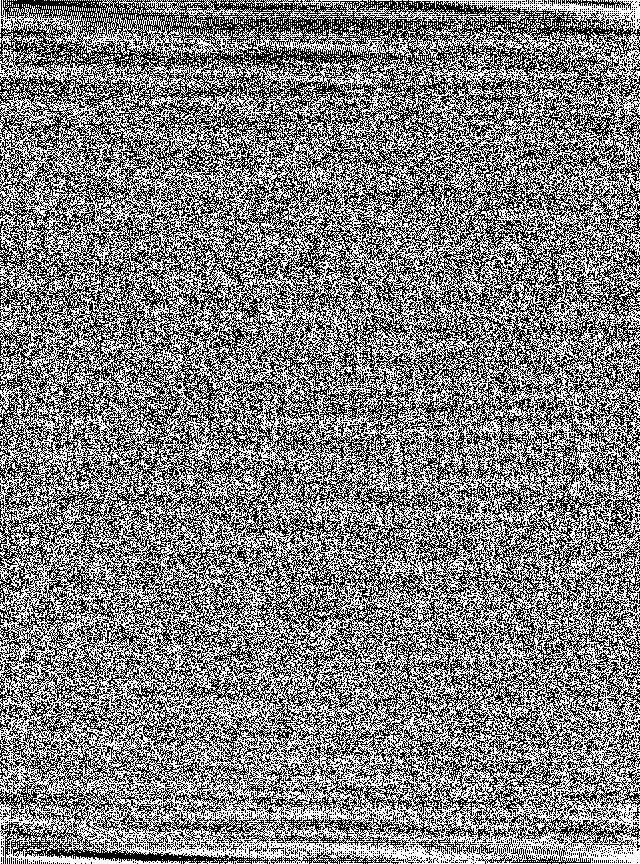
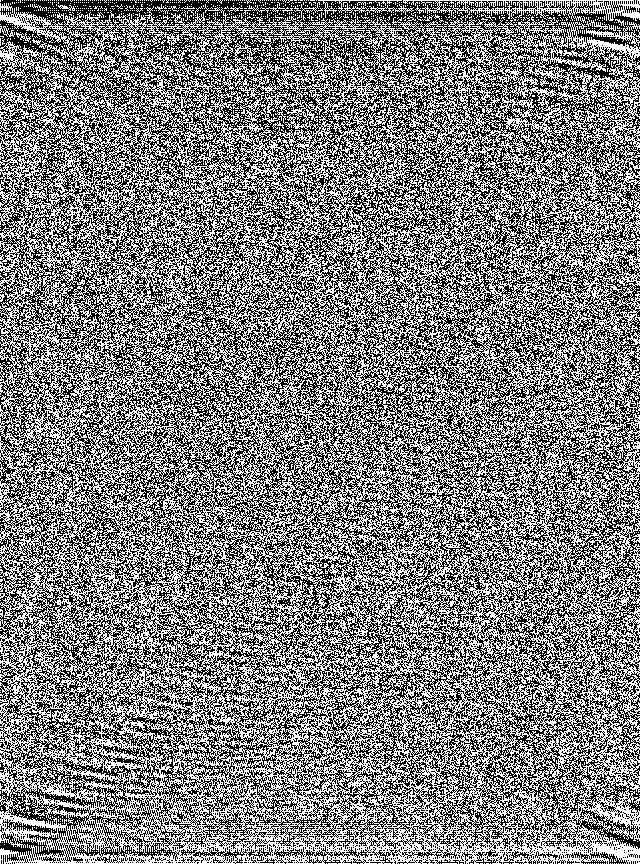
First Launch (Without DFT)

diff --git a/DIP_project/main.cpp b/DIP_project/main.cpp
@@ -25,7 +25,8 @@ Algorithms algoritmo = NONE;
 std::vector<std::pair<float, float>> equacionaRetas(std::vector<QPointF> buffer);
 
 Mat reference = Mat(cv::Size(1,1), 0);
-Mat scanimg = Mat(cv::Size(1,1), 0);
+Mat complexp;
+Mat scanimg = Mat(1, 1, CV_8UC1);
 bool can_draw = false;
 bool gaussianB = false;
 bool adjustRGB = false;
@@ -140,8 +141,12 @@ void MainWindow::on_Set_clicked()
         read = w->getText();
         auto dataScanography = parseScan(read);
         saved = scanographyWrite(einstein, dataScanography);
+        scanimg = saved;
         imgpath = "../images/scan.jpg";
         imgname = "scan.jpg";
+        imshow("Imagem com mensagem escondida", saved);
+        waitKey();
+        destroyWindow("Imagem com mensagem escondida");
         break;
     }
     case KERNEL:{
@@ -167,6 +172,7 @@ void MainWindow::on_Set_clicked()
         merge(planos, 2, complexo);
         dft(complexo, complexo);
         split(complexo, planos);
+        complexp = planos[1];
         magnitude(planos[0], planos[1], planos[0]);
         Mat fourier = planos[0];
         fourier += Scalar::all(1);
@@ -236,11 +242,11 @@ void MainWindow::on_Set_clicked()
     case TRANSFORMS:{
         if(isRot){
             if(isBilin){
-                saved = rotateBilinear(einstein, (w->retrieveTransQ()/5)*360);
+                saved = rotateBilinear(einstein, (w->retrieveTransQ()/2)*360);
                 imgpath = "../images/rotbilin.jpg";
                 imgname = "rotbilin.jpg";
             } else{
-                saved = rotate(einstein, (w->retrieveTransQ()/5)*360);
+                saved = rotate(einstein, (w->retrieveTransQ()/2)*360);
                 imgpath = "../images/rot.jpg";
                 imgname = "rot.jpg";
             }
@@ -320,19 +326,28 @@ void MainWindow::on_Set_clicked()
     }
     case HISTOGRAMA:{
         if(histEq){
-            Mat equalized(HistogramEqualization(einstein));
-            saveImage("../images/equalized.jpg", equalized);
-            showHistogram("../images/equalized.jpg");
-            imgpath = "../images/equalized.jpg";
-            imgname = "equalized.jpg";
+            if(histHSV){
+                Mat equalized(HistogramEqualizationHSV(einstein));
+                saveImage("../images/equalizedHSV.jpg", equalized);
+                showHistogram("../images/equalizedHSV.jpg");
+                showHistogramHSV("../images/equalizedHSV.jpg");
+            } else{
+                Mat equalized(HistogramEqualization(einstein));
+                saveImage("../images/equalized.jpg", equalized);
+                showHistogram("../images/equalized.jpg");
+            }
         }
         else{
-            showHistogram(imgpath);
+            if(histHSV){
+                showHistogramHSV(imgpath);
+            }else{
+                showHistogram(imgpath);
+            }
         }
         break;
     }
     }
-    if(algoritmo != FOURIER){
+    if(algoritmo != FOURIER && algoritmo != HISTOGRAMA){
         saveImage(imgpath, saved);
         w->setPath(imgname);
     }
@@ -352,8 +367,7 @@ void MainWindow::on_Clear_clicked()
         break;
     case ESCANOGRAFIA:{
         if(scanimg.size() != cv::Size(1, 1)){
-            w->clearText();
-            Mat scanimg = imread("../images/scan.jpg", IMREAD_UNCHANGED);
+            w->clearText();            
             std::string aux = std::string("Mensagem Lida: ") + scanographyRead(scanimg);
             const char *c = aux.c_str();
             w->setTextualPlaceholder(c);
@@ -369,7 +383,16 @@ void MainWindow::on_Clear_clicked()
     case FOURIER:
         LimpaLimiarizacao();
         break;
+    case MEDIA:{
+        w->clearText();
+        break;
     }
+    case MEDIANA:{
+        w->clearText();
+        break;
+    }
+    }
+
 }
 
 void MainWindow::on_ShowFourier_clicked()
@@ -393,17 +416,34 @@ void MainWindow::on_ShowFourier_clicked()
     q2.copyTo(q1);
     tmp.copyTo(q2);
 
-    int w = getOptimalDFTSize(fourier.cols);
-    int h = getOptimalDFTSize(fourier.rows);
+    int n = getOptimalDFTSize(fourier.cols);
+    int m = getOptimalDFTSize(fourier.rows);
+
+    Mat temp;
+
+    copyMakeBorder(fourier, temp, 0, m - fourier.rows, 0, n - fourier.cols, BORDER_CONSTANT, Scalar::all(0));
 
     Mat operando;
-    fourier.convertTo(operando, CV_32FC1);
+    temp.convertTo(operando, CV_32FC1);
+
+    Mat planos[] = {operando, complexp};
+    Mat complexo;
+    merge(planos, 2, complexo);
 
     Mat inversa;
-    dft(operando, inversa, DFT_INVERSE|DFT_REAL_OUTPUT);
+    dft(complexo, inversa, DFT_INVERSE);
+    split(inversa, planos);
+    magnitude(planos[0], planos[1], planos[0]);
+    Mat realp = planos[0];
+    realp += Scalar::all(1);
+    log(realp, realp);
+
+    realp = realp(Rect(0, 0, realp.cols & -2, realp.rows & -2));
 
     Mat final;
-    inversa.convertTo(final, CV_8UC1);
+    realp.convertTo(final, CV_8UC1);
+
+    final = gammaC(final, 1.0, 0.5);
 
     imshow("Transformada Inversa", final);
     waitKey();
@@ -795,6 +835,7 @@ void MainWindow::on_radioButton_8_clicked()
     w->ToggleText(SHOW);
     w->setTextualPlaceholder(templateAlg[MEDIA]);
     w->ToggleTransform(HIDE);
+    w->clearText();
     w->ToggleDist(HIDE);
     w->TogglePond(SHOW);
     w->ToggleHist(HIDE);
@@ -814,6 +855,7 @@ void MainWindow::on_radioButton_13_clicked()
     w->ToggleText(SHOW);
     w->setTextualPlaceholder(templateAlg[MEDIANA]);
     w->ToggleDist(HIDE);
+    w->clearText();
     w->TogglePond(HIDE);
     w->ToggleHist(HIDE);
     w->ToggleSobel(HIDE);

diff --git a/DIP_project/src/Algorithms.cpp b/DIP_project/src/Algorithms.cpp
@@ -534,7 +534,7 @@ cv::Mat scanographyWrite(Mat image,string p)
 }
 
 
-string scanographyRead(Mat image)
+std::string scanographyRead(Mat image)
 {
     uint8_t* pixelImagePtr;
     pixelImagePtr = (uint8_t*)image.data;
@@ -1832,8 +1832,6 @@ Mat Vnegative(Mat image){
                 else if (a.data[i][j].h >= 2*Pi){
                    a.data[i][j].h -= 2*Pi;
                 }
-
-                    a.data[i][j].s = 1 - a.data[i][j].s;
             }
             a.data[i][j].v = 1 - a.data[i][j].v;
         }

diff --git a/DIP_project/includes/Algorithms.hpp b/DIP_project/includes/Algorithms.hpp
@@ -58,7 +58,11 @@ bool saveImage(const std::string& path, const cv::Mat& image);
 
 int showHistogram(string path);
 
+int showHistogramHSV(string path);
+
 cv::Mat HistogramEqualization(Mat image);
+
+Mat HistogramEqualizationHSV(Mat image);
 
 std::string parseScan(std::string s);
 
